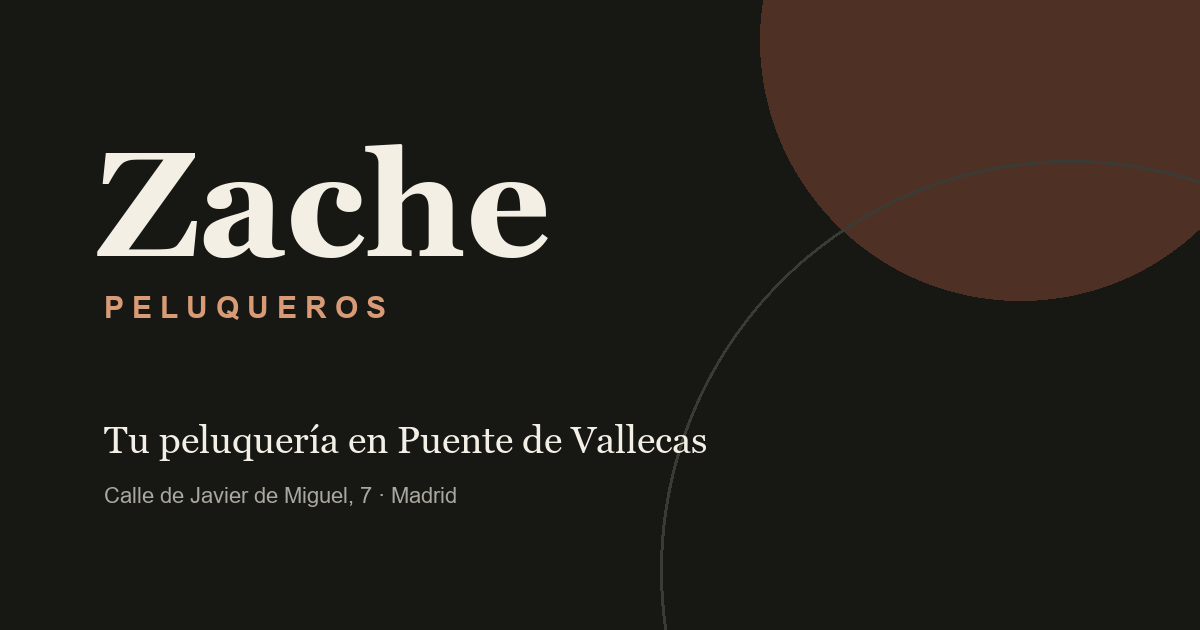
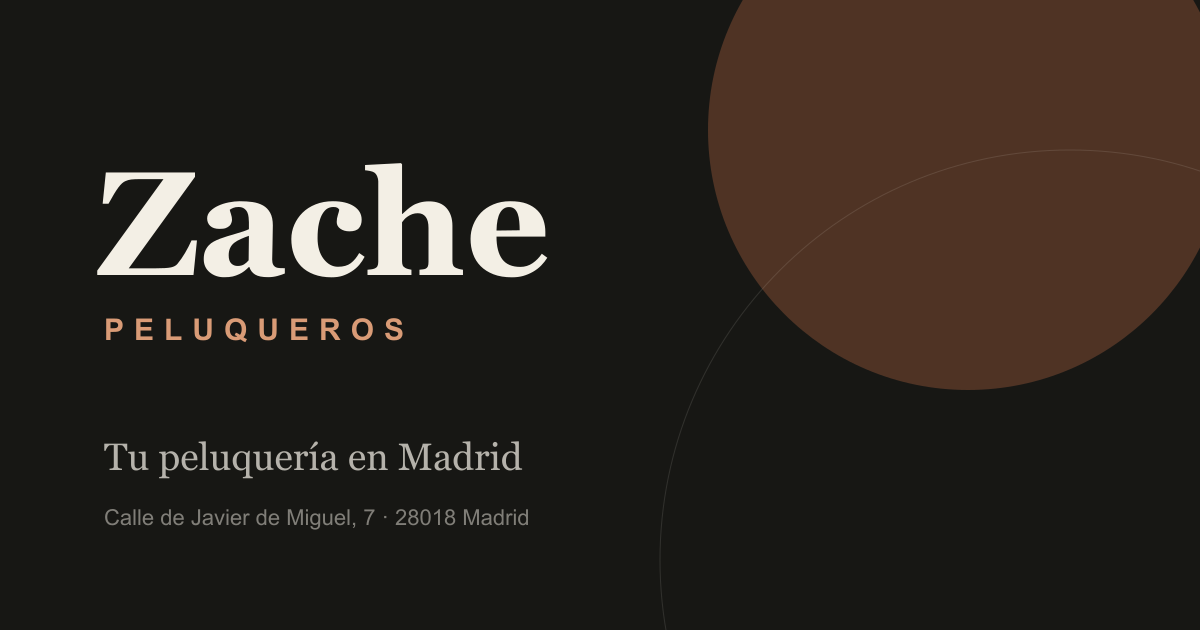
Corrige la ubicación del salón a Madrid

diff --git a/index.html b/index.html
@@ -6,7 +6,7 @@
     <meta name="theme-color" content="#171714" />
     <meta
       name="description"
-      content="Zache Peluqueros, tu peluquería de confianza en Puente de Vallecas, Madrid. Visítanos en la calle Javier de Miguel, 7 o llámanos al 914 77 27 37."
+      content="Zache Peluqueros, tu peluquería de confianza en Madrid. Visítanos en la calle Javier de Miguel, 7, 28018 Madrid, o llámanos al 914 77 27 37."
     />
     <meta name="robots" content="index, follow, max-image-preview:large" />
     <meta name="author" content="Zache Peluqueros" />
@@ -15,21 +15,21 @@
     <meta property="og:type" content="website" />
     <meta property="og:locale" content="es_ES" />
     <meta property="og:site_name" content="Zache Peluqueros" />
-    <meta property="og:title" content="Zache Peluqueros · Peluquería en Vallecas" />
+    <meta property="og:title" content="Zache Peluqueros · Peluquería en Madrid" />
     <meta
       property="og:description"
-      content="Cuidamos de tu estilo con oficio, cercanía y atención al detalle en Puente de Vallecas."
+      content="Cuidamos de tu estilo con oficio, cercanía y atención al detalle en Madrid."
     />
     <meta property="og:url" content="https://zachepeluqueros.es/" />
-    <meta property="og:image" content="https://zachepeluqueros.es/assets/compartir-zache.png" />
+    <meta property="og:image" content="https://zachepeluqueros.es/assets/compartir-zache.png?v=20260729-1" />
     <meta property="og:image:width" content="1200" />
     <meta property="og:image:height" content="630" />
-    <meta property="og:image:alt" content="Zache Peluqueros, peluquería en Vallecas" />
+    <meta property="og:image:alt" content="Zache Peluqueros, peluquería en Madrid" />
     <meta name="twitter:card" content="summary_large_image" />
 
     <link rel="icon" href="assets/favicon.svg" type="image/svg+xml" />
     <link rel="stylesheet" href="styles.css?v=20260722-1" />
-    <title>Zache Peluqueros | Peluquería en Puente de Vallecas, Madrid</title>
+    <title>Zache Peluqueros | Peluquería en Madrid</title>
 
     <script type="application/ld+json">
       {
@@ -39,7 +39,7 @@
         "name": "Zache Peluqueros",
         "url": "https://zachepeluqueros.es/",
         "telephone": "+34914772737",
-        "description": "Peluquería de confianza en Puente de Vallecas, Madrid.",
+        "description": "Peluquería de confianza en Madrid.",
         "address": {
           "@type": "PostalAddress",
           "streetAddress": "Calle de Javier de Miguel, 7",
@@ -48,7 +48,7 @@
           "postalCode": "28018",
           "addressCountry": "ES"
         },
-        "areaServed": "Puente de Vallecas, Madrid",
+        "areaServed": "Madrid",
         "sameAs": [
           "https://www.facebook.com/ZachePeluqueros/",
           "https://www.instagram.com/zache_peluqueros/"
@@ -108,7 +108,7 @@
       <section class="hero" id="inicio" aria-labelledby="hero-title">
         <div class="container hero-grid">
           <div class="hero-copy" data-reveal>
-            <p class="eyebrow"><span></span> Peluquería en Puente de Vallecas</p>
+            <p class="eyebrow"><span></span> Peluquería en Madrid</p>
             <h1 id="hero-title">Tu estilo,<br /><em>muy tú.</em></h1>
             <p class="hero-intro">
               Oficio, cercanía y una mirada personal para que salgas sintiéndote bien. Así de sencillo.
@@ -133,7 +133,7 @@
               decoding="async"
             />
             <div class="hero-badge" aria-hidden="true">
-              <svg viewBox="0 0 100 100"><defs><path id="circle" d="M50,50 m-34,0 a34,34 0 1,1 68,0 a34,34 0 1,1 -68,0"/></defs><text><textPath href="#circle">ZACHE · VALLECAS · MADRID · </textPath></text></svg>
+              <svg viewBox="0 0 100 100"><defs><path id="circle" d="M50,50 m-34,0 a34,34 0 1,1 68,0 a34,34 0 1,1 -68,0"/></defs><text><textPath href="#circle">ZACHE · MADRID · 28018 · </textPath></text></svg>
               <span>✦</span>
             </div>
           </div>
@@ -160,7 +160,7 @@
               loading="lazy"
               decoding="async"
             />
-            <p class="photo-caption">Calle de Javier de Miguel, 7 · Vallecas</p>
+            <p class="photo-caption">Calle de Javier de Miguel, 7 · 28018 Madrid</p>
           </div>
 
           <div class="story-copy" data-reveal>
@@ -370,7 +370,7 @@
       <section class="visit section" id="visitanos" aria-labelledby="visit-title">
         <div class="container">
           <div class="visit-heading" data-reveal>
-            <p class="eyebrow"><span></span> Estamos en Vallecas</p>
+            <p class="eyebrow"><span></span> Estamos en Madrid</p>
             <h2 id="visit-title">Ven a <em>vernos.</em></h2>
           </div>
 
@@ -399,7 +399,6 @@
                 <p class="contact-label">Dirección</p>
                 <address>
                   Calle de Javier de Miguel, 7<br />
-                  Puente de Vallecas<br />
                   28018 Madrid
                 </address>
               </div>
@@ -438,7 +437,7 @@
             <span class="brand-mark" aria-hidden="true">Z</span>
             <span class="brand-name">Zache<small>Peluqueros</small></span>
           </a>
-          <p>Tu peluquería de confianza en Puente de Vallecas.</p>
+          <p>Tu peluquería de confianza en Madrid.</p>
         </div>
         <div class="footer-column">
           <p class="footer-title">Encuéntranos</p>

diff --git a/blog/canas-estres-memoria.html b/blog/canas-estres-memoria.html
@@ -105,7 +105,7 @@
 
     <footer class="site-footer">
       <div class="container footer-grid">
-        <div><a class="brand brand-footer" href="../"><span class="brand-mark" aria-hidden="true">Z</span><span class="brand-name">Zache<small>Peluqueros</small></span></a><p>Tu peluquería de confianza en Puente de Vallecas.</p></div>
+        <div><a class="brand brand-footer" href="../"><span class="brand-mark" aria-hidden="true">Z</span><span class="brand-name">Zache<small>Peluqueros</small></span></a><p>Tu peluquería de confianza en Madrid.</p></div>
         <div class="footer-column"><p class="footer-title">Encuéntranos</p><a href="https://www.instagram.com/zache_peluqueros/" target="_blank" rel="noopener noreferrer">Instagram ↗</a><a href="https://www.facebook.com/ZachePeluqueros/" target="_blank" rel="noopener noreferrer">Facebook ↗</a></div>
         <div class="footer-column"><p class="footer-title">Contacto</p><a href="tel:+34914772737">914 77 27 37</a><a href="../#visitanos">Cómo llegar</a></div>
         <div class="footer-column"><p class="footer-title">Información</p><a href="./">Blog</a><a href="../legal/aviso-legal.html">Aviso legal</a><a href="../legal/privacidad.html">Privacidad</a><a href="../legal/cookies.html">Cookies</a></div>

diff --git a/blog/cuidar-el-cabello.html b/blog/cuidar-el-cabello.html
@@ -102,7 +102,7 @@
 
     <footer class="site-footer">
       <div class="container footer-grid">
-        <div><a class="brand brand-footer" href="../"><span class="brand-mark" aria-hidden="true">Z</span><span class="brand-name">Zache<small>Peluqueros</small></span></a><p>Tu peluquería de confianza en Puente de Vallecas.</p></div>
+        <div><a class="brand brand-footer" href="../"><span class="brand-mark" aria-hidden="true">Z</span><span class="brand-name">Zache<small>Peluqueros</small></span></a><p>Tu peluquería de confianza en Madrid.</p></div>
         <div class="footer-column"><p class="footer-title">Encuéntranos</p><a href="https://www.instagram.com/zache_peluqueros/" target="_blank" rel="noopener noreferrer">Instagram ↗</a><a href="https://www.facebook.com/ZachePeluqueros/" target="_blank" rel="noopener noreferrer">Facebook ↗</a></div>
         <div class="footer-column"><p class="footer-title">Contacto</p><a href="tel:+34914772737">914 77 27 37</a><a href="../#visitanos">Cómo llegar</a></div>
         <div class="footer-column"><p class="footer-title">Información</p><a href="./">Blog</a><a href="../legal/aviso-legal.html">Aviso legal</a><a href="../legal/privacidad.html">Privacidad</a><a href="../legal/cookies.html">Cookies</a></div>

diff --git a/blog/microbioma-cuero-cabelludo.html b/blog/microbioma-cuero-cabelludo.html
@@ -106,7 +106,7 @@
 
     <footer class="site-footer">
       <div class="container footer-grid">
-        <div><a class="brand brand-footer" href="../"><span class="brand-mark" aria-hidden="true">Z</span><span class="brand-name">Zache<small>Peluqueros</small></span></a><p>Tu peluquería de confianza en Puente de Vallecas.</p></div>
+        <div><a class="brand brand-footer" href="../"><span class="brand-mark" aria-hidden="true">Z</span><span class="brand-name">Zache<small>Peluqueros</small></span></a><p>Tu peluquería de confianza en Madrid.</p></div>
         <div class="footer-column"><p class="footer-title">Encuéntranos</p><a href="https://www.instagram.com/zache_peluqueros/" target="_blank" rel="noopener noreferrer">Instagram ↗</a><a href="https://www.facebook.com/ZachePeluqueros/" target="_blank" rel="noopener noreferrer">Facebook ↗</a></div>
         <div class="footer-column"><p class="footer-title">Contacto</p><a href="tel:+34914772737">914 77 27 37</a><a href="../#visitanos">Cómo llegar</a></div>
         <div class="footer-column"><p class="footer-title">Información</p><a href="./">Blog</a><a href="../legal/aviso-legal.html">Aviso legal</a><a href="../legal/privacidad.html">Privacidad</a><a href="../legal/cookies.html">Cookies</a></div>

diff --git a/blog/index.html b/blog/index.html
@@ -90,7 +90,7 @@
 
     <footer class="site-footer">
       <div class="container footer-grid">
-        <div><a class="brand brand-footer" href="../"><span class="brand-mark" aria-hidden="true">Z</span><span class="brand-name">Zache<small>Peluqueros</small></span></a><p>Tu peluquería de confianza en Puente de Vallecas.</p></div>
+        <div><a class="brand brand-footer" href="../"><span class="brand-mark" aria-hidden="true">Z</span><span class="brand-name">Zache<small>Peluqueros</small></span></a><p>Tu peluquería de confianza en Madrid.</p></div>
         <div class="footer-column"><p class="footer-title">Encuéntranos</p><a href="https://www.instagram.com/zache_peluqueros/" target="_blank" rel="noopener noreferrer">Instagram ↗</a><a href="https://www.facebook.com/ZachePeluqueros/" target="_blank" rel="noopener noreferrer">Facebook ↗</a></div>
         <div class="footer-column"><p class="footer-title">Contacto</p><a href="tel:+34914772737">914 77 27 37</a><a href="../#visitanos">Cómo llegar</a></div>
         <div class="footer-column"><p class="footer-title">Información</p><a href="./">Blog</a><a href="../legal/aviso-legal.html">Aviso legal</a><a href="../legal/privacidad.html">Privacidad</a><a href="../legal/cookies.html">Cookies</a></div>

diff --git a/styles.css b/styles.css
@@ -1266,7 +1266,7 @@ svg {
   letter-spacing: .04em;
 }
 
-.label-vallecas {
+.label-city {
   top: 18%;
   right: 14%;
 }
